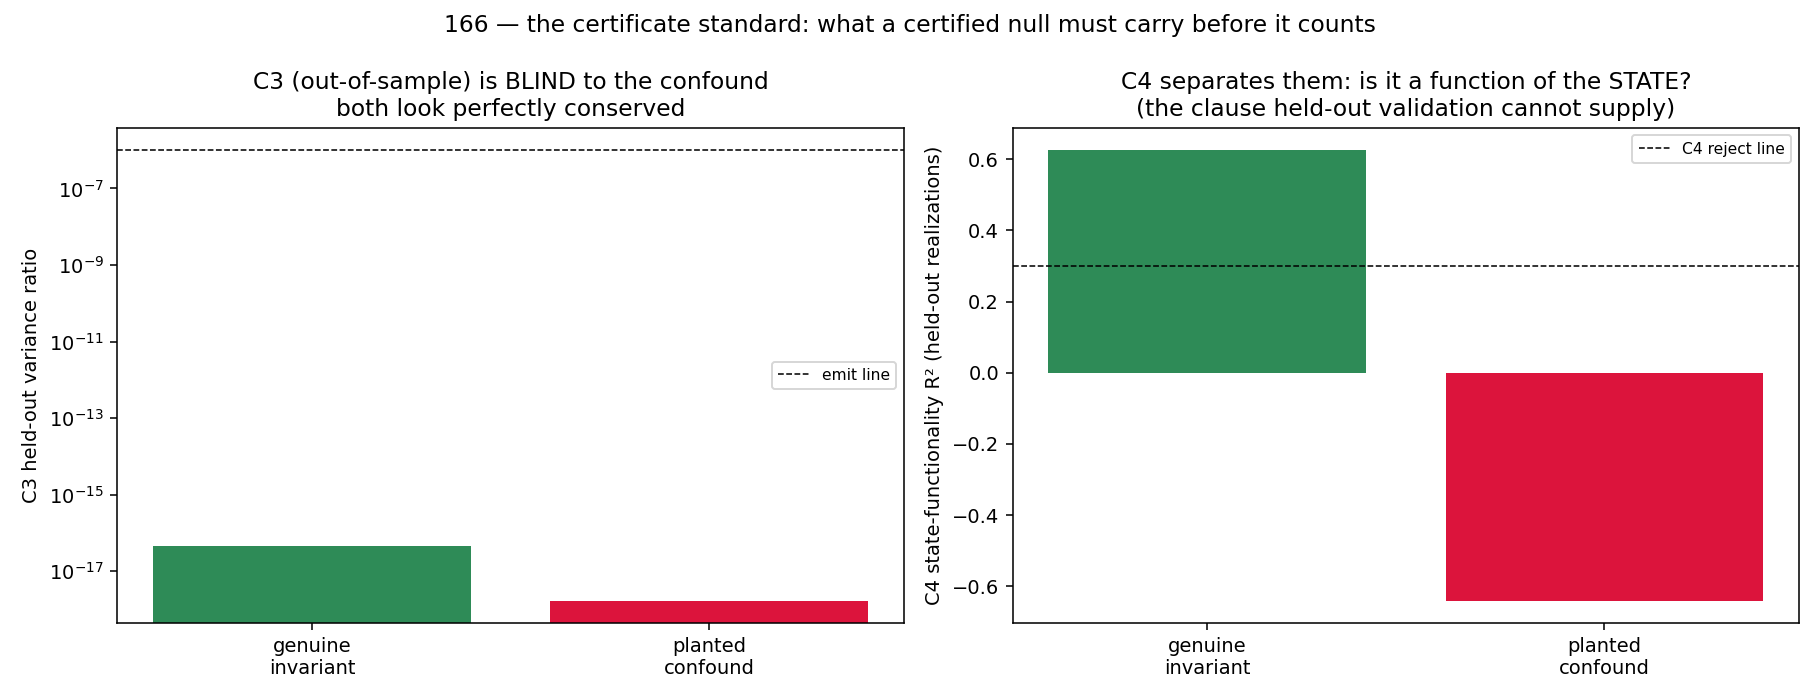
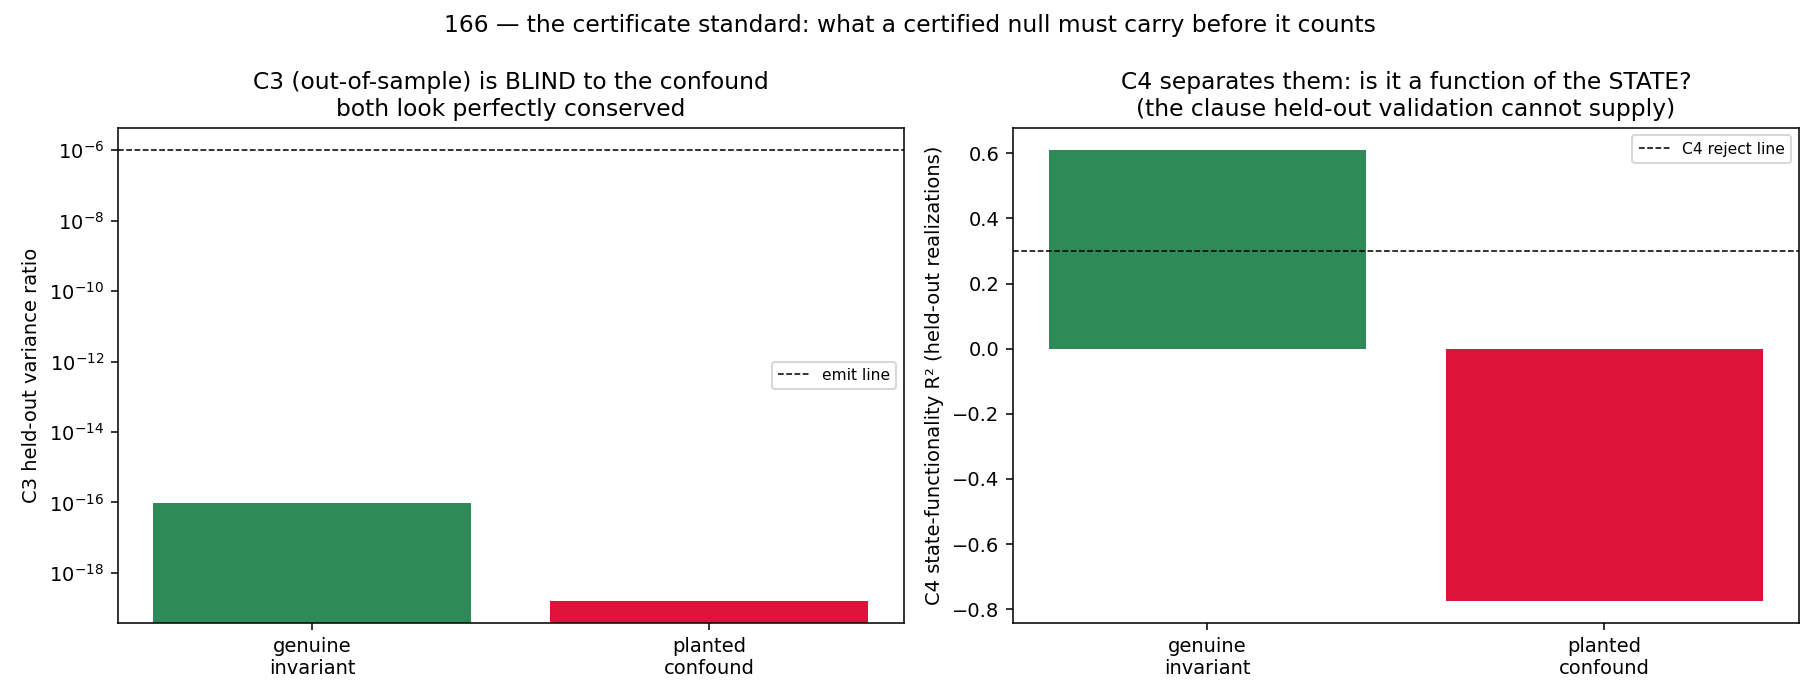
166: S4_rich verdict marked CONDITIONING-LIMITED (platform-dependent, not a result); regenerated on macOS 27.0.1 (26A434); standard still validated

diff --git a/curvature/scripts/166_certificate_standard.py b/curvature/scripts/166_certificate_standard.py
@@ -265,6 +265,11 @@ def main():
     print(f"S3 true null certifies scoped: {S3}")
     print(f"S4 conditioning clause fires: {S4}")
 
+    # The over-rich library is rank-deficient by design, so its C4 verdict depends on the BLAS's summation order:
+    # EMIT on macOS 26.5, REJECT-CONFOUND on macOS 27.0.1 (each deterministic). It is never a result.
+    c4r["verdict_this_platform"] = c4r.pop("verdict")
+    c4r["verdict"] = ("CONDITIONING-LIMITED, not a result: EMIT on macOS 26.5, REJECT-CONFOUND on macOS 27.0.1 "
+                      "(deterministic per platform; flips with the BLAS arithmetic on this rank-deficient library)")
     out = {"standard": {"C1": "basis named -- every null scoped to (family, order)",
                         "C2": "conditioning gated -- null(W) - deficiency(F), never raw null(W) [165]",
                         "C3": "out-of-sample -- held-out REALIZATIONS, never in-sample [164/R7]",

diff --git a/curvature/notes/macos27_regression_2026-10-24.md b/curvature/notes/macos27_regression_2026-10-24.md
@@ -44,3 +44,7 @@ survived (steps ~51–66):
 
 ## Not done
 - A re-run of steps 1–50 to recover their pre/post diffs (the gates themselves passed and are in the log).
+- **Follow-up (The Bridge's suggestion):** §166 `S4_rich.verdict` now reads "CONDITIONING-LIMITED, not a result: EMIT
+  on macOS 26.5, REJECT-CONFOUND on macOS 27.0.1 (deterministic per platform)". This platform's raw verdict is kept in
+  `verdict_this_platform`. Nothing downstream reads the field (git grep); the gate reads
+  `certificate_standard_validated`, still True. Output regenerated on macOS 27.0.1 (26A434).
